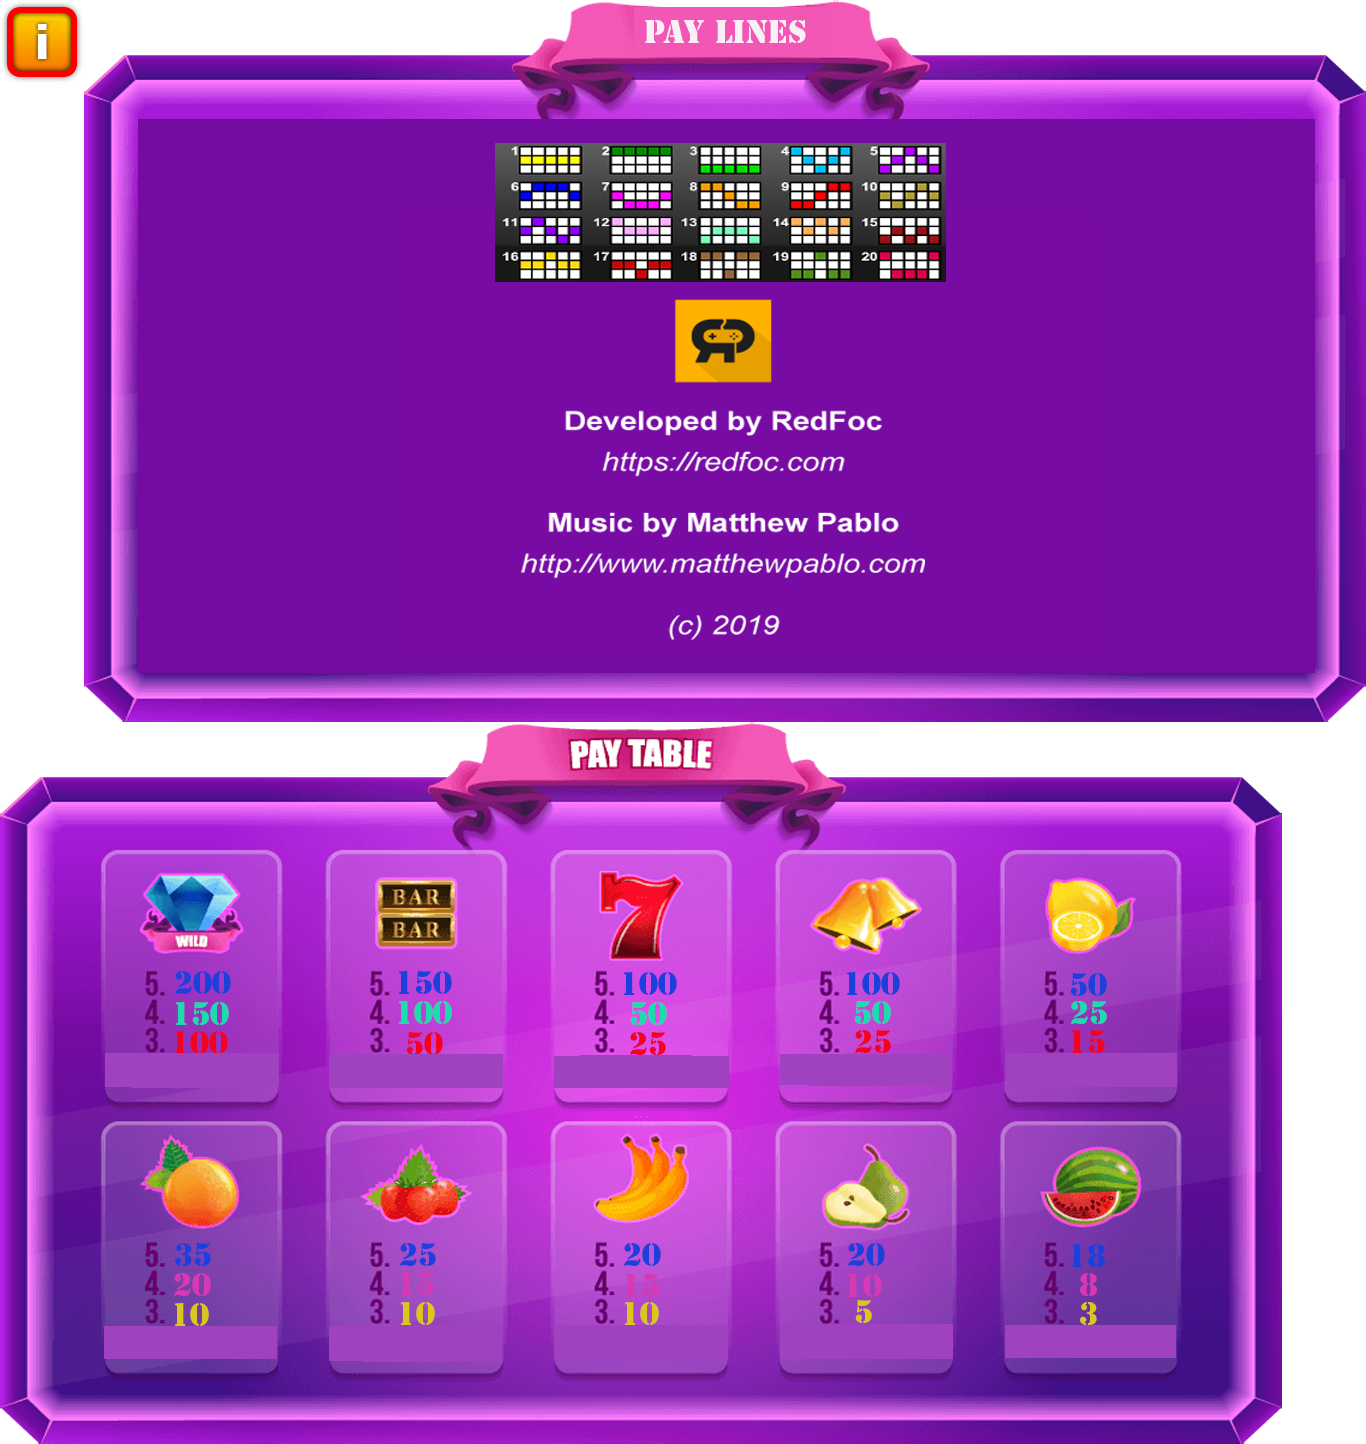
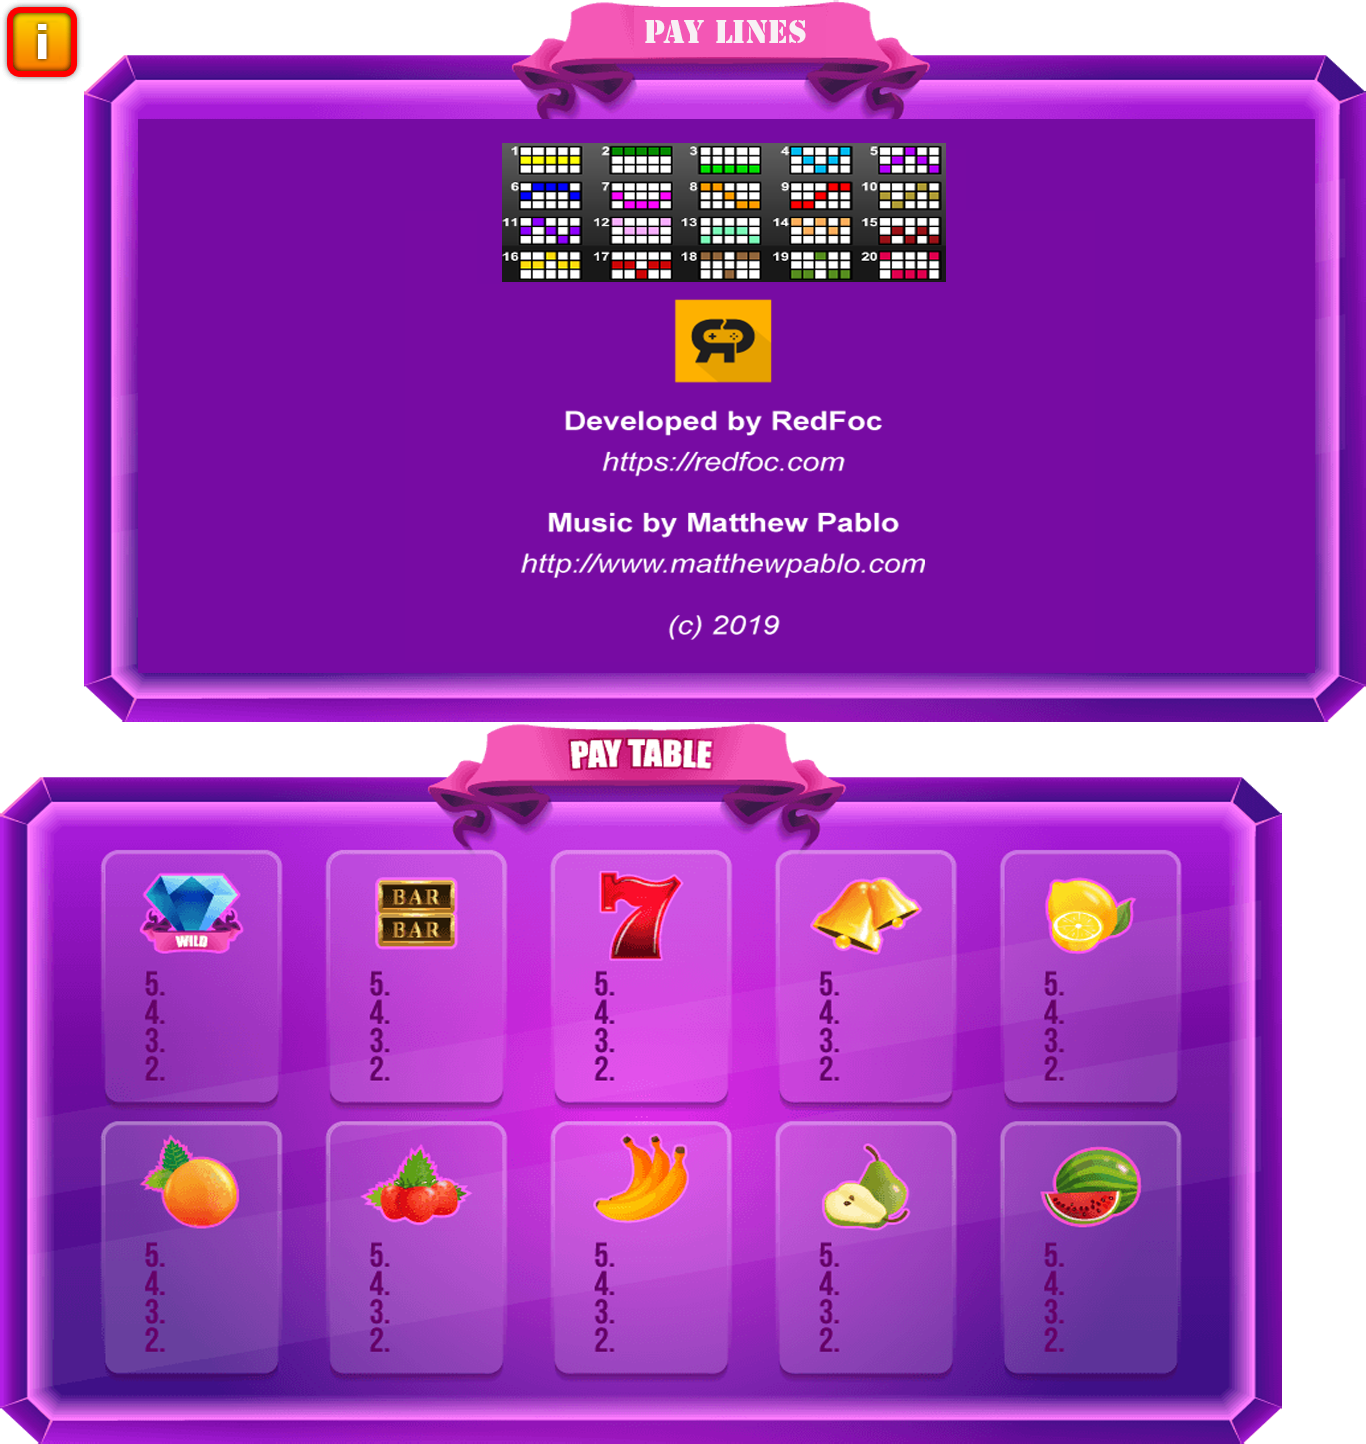
update

diff --git a/src/Class/Info/Info.js b/src/Class/Info/Info.js
@@ -8,6 +8,7 @@ export default class Info {
     constructor(scene, keyInfo = Key.info) {
         this.scene = scene;
         this.addInfo();
+        this.click = false;
     }
 
     addInfo() {
@@ -21,27 +22,63 @@ export default class Info {
     /*end function add info*/
 
     showPayTable() {
-        //play audio button
-        this.scene.audioPlayButton();
-        //function show value
-        this.showTable();
-        //event click
-        this.paytable.on('pointerdown', this.deleteTable, this);
+        if(!this.click) {
+            //set click = true
+            this.click = true;
+            //play audio button
+            this.scene.audioPlayButton();
+            //function show table
+            this.showTable();
+            this.btnExit = new Sprite(this.scene, Config.width - 30 , 
+                Config.height - 635, 'bgButtons', 'btn_exit.png').
+                setScale(0.9).setDepth(1);
+            this.btnExit.on('pointerdown', this.deleteTable, this);
+        }
     }
 
-    /* end funtion show paytable*/
+    /* end funtion show pay table*/
 
     showTable() {
+        this.payValues = [];
+
         this.paytable = new Sprite(this.scene, Config.width / 2, Config.height / 2,
-            'about', 'paytable.png').setDepth(1).setInteractive();
+            'about', 'paytable.png').setDepth(1);
+
+        var width = 190, width2 = width, height = 25, height2 = 245;
+
+        for(let i = 0; i < Options.payvalues.length; i++) {
+            if(i >= 5) {
+                for(let j = 0; j < Options.payvalues[i].length; j++) {
+                    height2 -= 30;
+                    this.payValues.push(this.scene.add.text(width2, Config.height / 2 + height2, Options.payvalues[i][j], Style.stylePayValue).setDepth(1));
+                }
+                width2 += 225;
+                height2 = 245;
+            } else {
+                for(let j = 0; j < Options.payvalues[i].length; j++) {
+                    height += 30;
+                    this.payValues.push(this.scene.add.text(width, Config.height / 2 - height, Options.payvalues[i][j], Style.stylePayValue).setDepth(1));
+                }
+                width += 225;
+                height = 25;
+            }
+        }
     }
 
     /*end function show table*/
 
     deleteTable() {
+        //set click = false
+        this.click = false;
         //play audio button
         this.scene.audioPlayButton();
         this.paytable.destroy();
+        this.btnExit.destroy();
+        if(this.payValues.length > 0) {
+            for(let i = 0; i < this.payValues.length; i++) {
+                this.payValues[i].destroy();
+            }
+        }
     }
 
     /*end function delete table*/

diff --git a/src/Class/Spin/AutoSpin.js b/src/Class/Spin/AutoSpin.js
@@ -77,9 +77,6 @@ export default class AutoSpin {
         this.btnPlus.on('pointerdown', () => {
             //play audio button
             this.scene.audioPlayButton();
-            if(Options.txtAuto === 100) {
-                this.btnPlus.setTint(0xa09d9d);
-            }
             if(Options.txtAuto < 100) {
                 this.btnMinus.clearTint();
                 this.btnPlus.setScale(0.9);
@@ -88,6 +85,9 @@ export default class AutoSpin {
                 Options.txtAuto < 100 ? this.txtAuto.x = 620 :
                     this.txtAuto.x = 610;
                 this.txtAuto.setText(Options.txtAuto);
+            }
+            if(Options.txtAuto === 100) {
+                this.btnPlus.setTint(0xa09d9d);
             }
         });
         this.btnPlus.on('pointerup', () => this.btnPlus.setScale(1));
@@ -100,10 +100,7 @@ export default class AutoSpin {
             'autoSpin', 'btn_minus_bet.png');
         this.btnMinus.on('pointerdown', () => {
             //play audio button
-            this.scene.audioPlayButton();
-            if(Options.txtAuto === 5) {
-                this.btnMinus.setTint(0xa09d9d);
-            }  
+            this.scene.audioPlayButton(); 
             if(Options.txtAuto > 5) {
                 this.btnPlus.clearTint();
                 this.btnMinus.setScale(0.9);
@@ -111,7 +108,10 @@ export default class AutoSpin {
                 //function set text x auto
                 this.setXAuto();
                 this.txtAuto.setText(Options.txtAuto);  
-            } 
+            }
+            if(Options.txtAuto === 5) {
+                this.btnMinus.setTint(0xa09d9d);
+            }  
         });
         this.btnMinus.on('pointerup', () => this.btnMinus.setScale(1));
     }

diff --git a/src/Class/Credit/Credit.js b/src/Class/Credit/Credit.js
@@ -13,20 +13,25 @@ export default class Credit {
         this.credits = new Sprite(this.scene, Config.width - 235, Config.height - 680,
             'about', 'btn-credits.png').setScale(0.7);
         this.credits.on('pointerdown', () => {
+            this.credits.setScale(0.6);
             //play audio button
             this.scene.audioPlayButton();
-
-            this.credits.setScale(0.6);
             this.paylines = new Sprite(this.scene,Config.width / 2, Config.height / 2,
-                'about', 'palines.png').setDepth(1).setInteractive();
-            this.paylines.on('pointerdown', () => {
-                //play audio button
-                this.scene.audioPlayButton();
-            
-                this.paylines.destroy();
-                this.credits.setScale(0.7);
-            });
+                'about', 'palines.png').setDepth(1);
+            this.btnExit = new Sprite(this.scene, Config.width - 30 , 
+                    Config.height - 635, 'bgButtons', 'btn_exit.png').
+                    setScale(0.9).setDepth(1);
+            this.btnExit.on('pointerdown', this.deleteCredit, this);     
         });
+        this.credits.on('pointerup', () => this.credits.setScale(0.7));
     }
+
     /*end function credit*/
+
+    deleteCredit() {
+        //play audio button
+        this.scene.audioPlayButton();
+        this.btnExit.destroy();
+        this.paylines.destroy();
+    }
 }

diff --git a/src/Scene/BootScene.js b/src/Scene/BootScene.js
@@ -1,7 +1,6 @@
 import Sprite from '../Class/Sprite';
 import Audio from '../Class/Audio/Audio';
 import Key from '../Key/keyScene';
-import Options from '../Constants/options';
 import Config from '../Config/config';
 //Scene Boot
 export default class BootScene extends Phaser.Scene {

diff --git a/src/Css/style.js b/src/Css/style.js
@@ -20,6 +20,11 @@ export default {
         color : '#ffffff',
         fontFamily : 'PT Serif'
     },
+    stylePayValue : {
+        fontSize : '30px',
+        color : '#630066',
+        fontFamily : 'PT Serif'
+    },
     fontSizeSpeed : 80,
     fontSize : 38
 };
